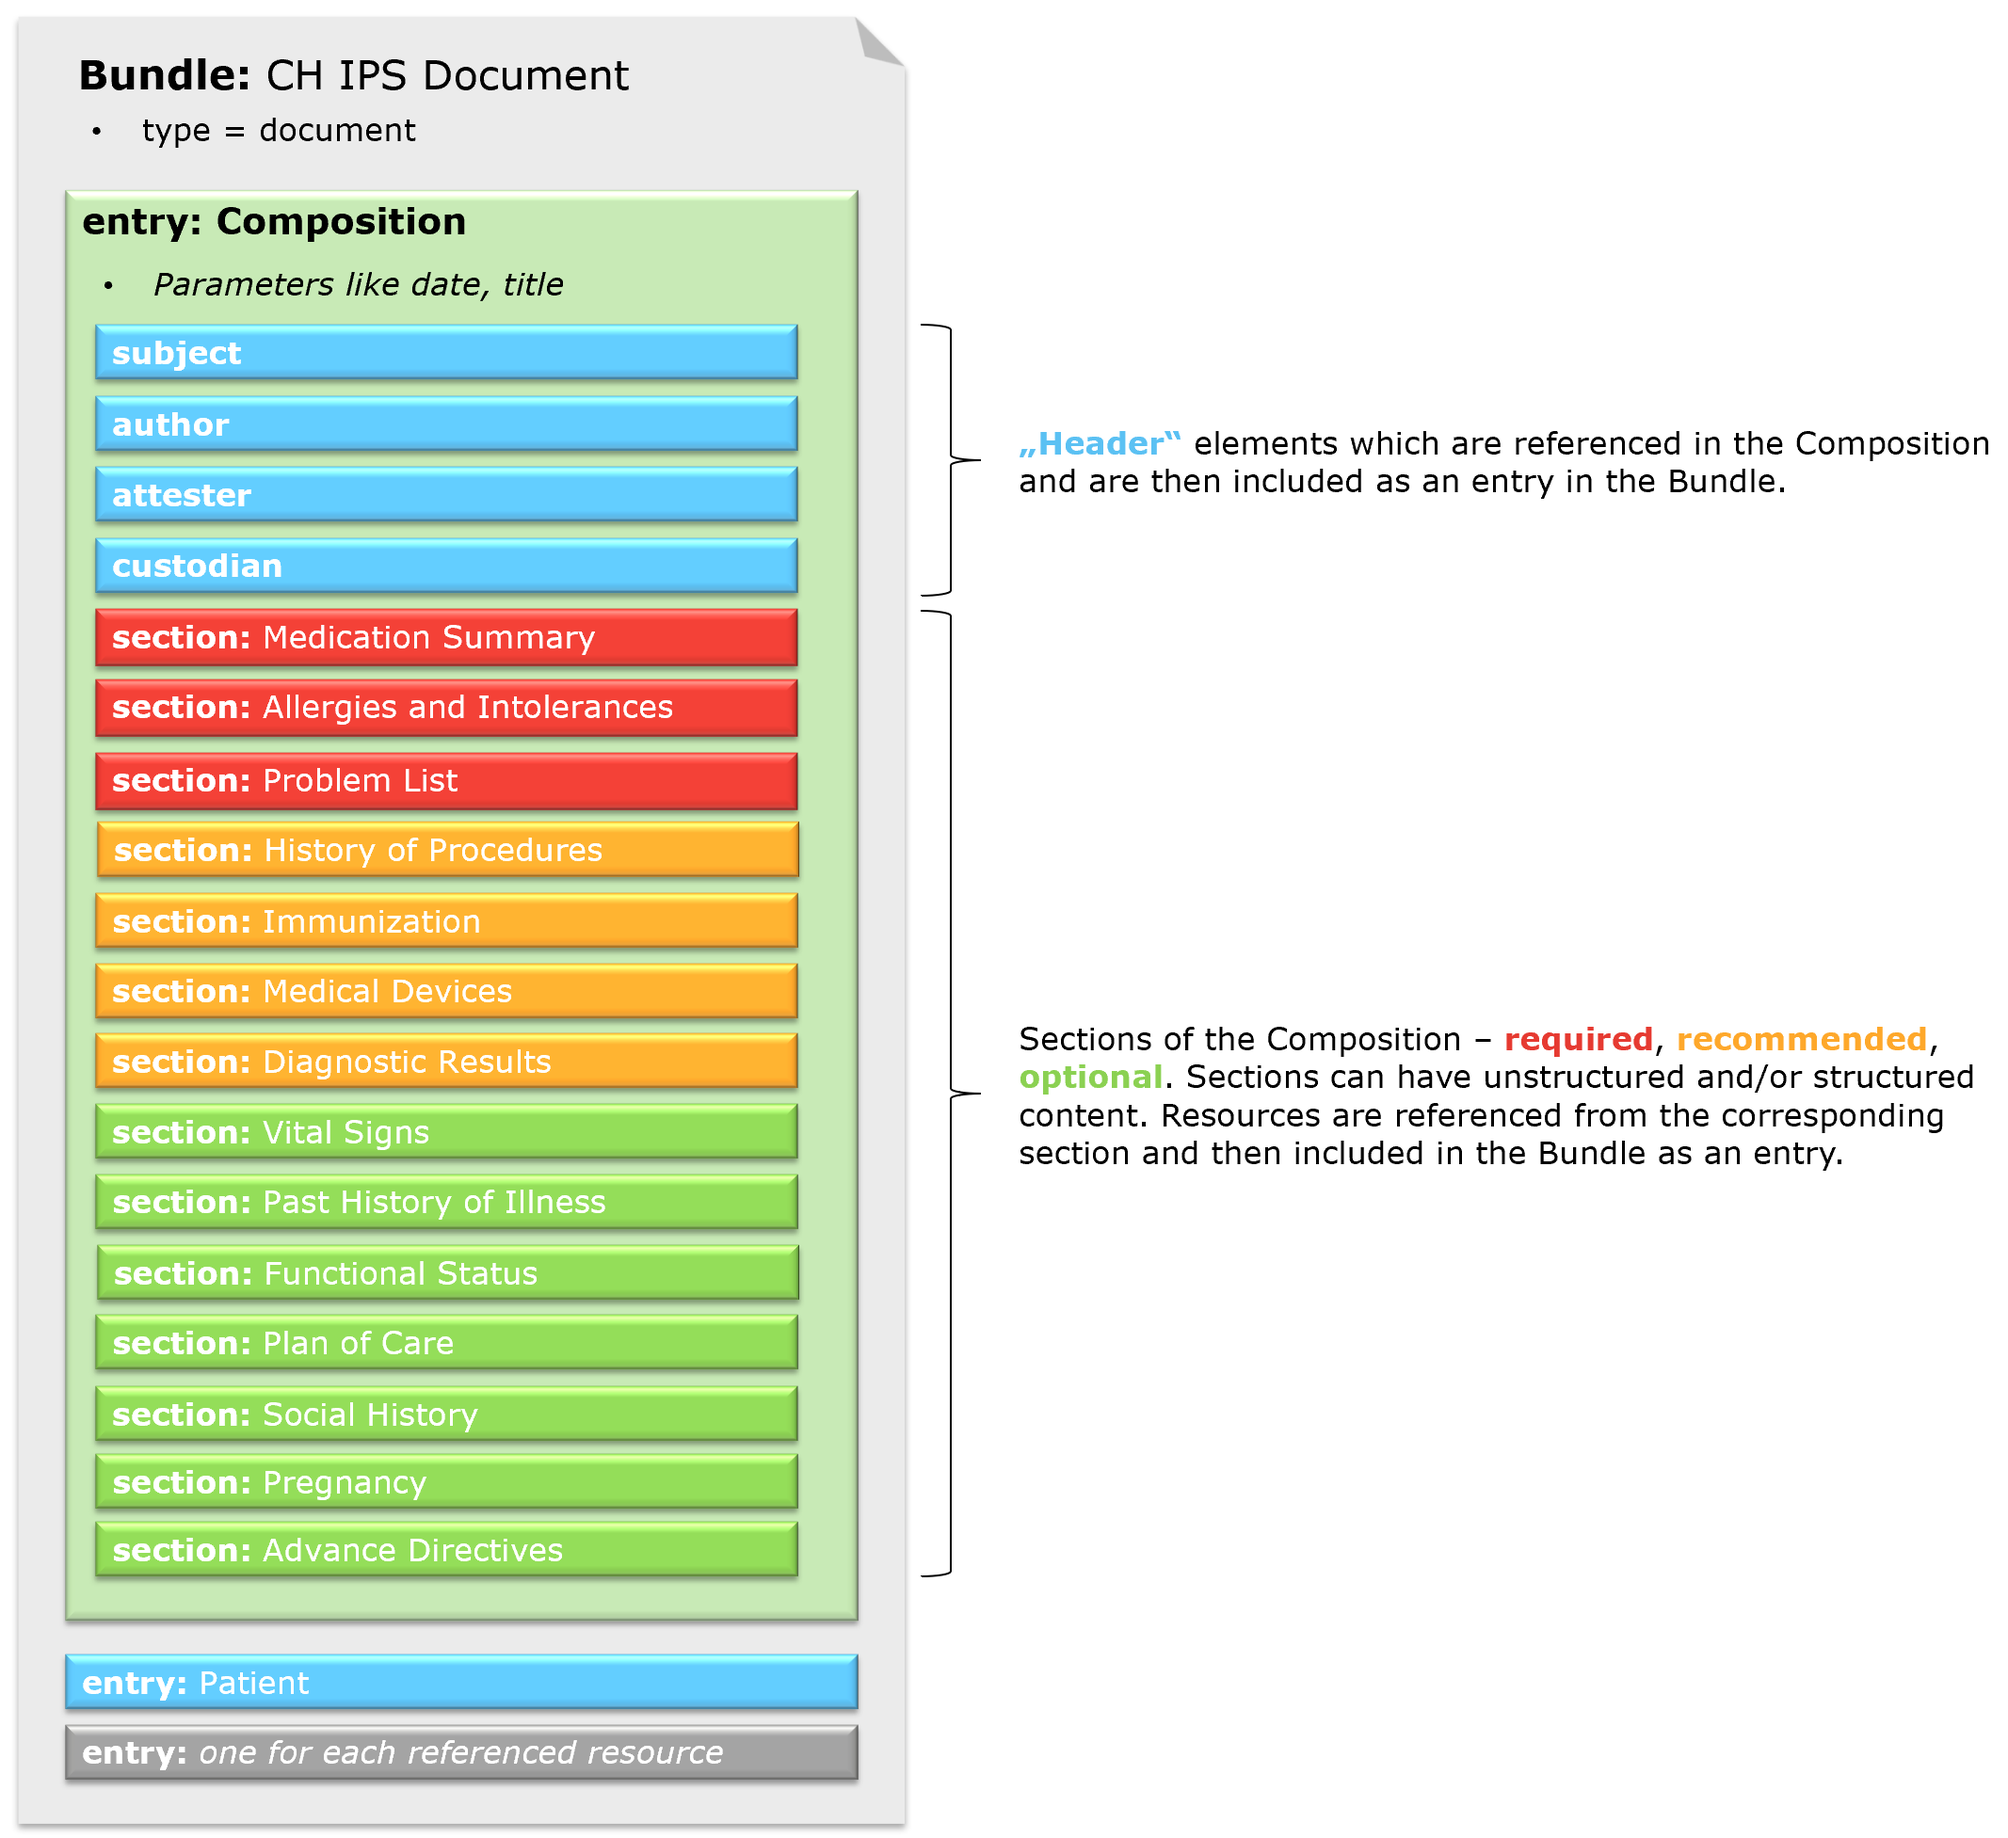
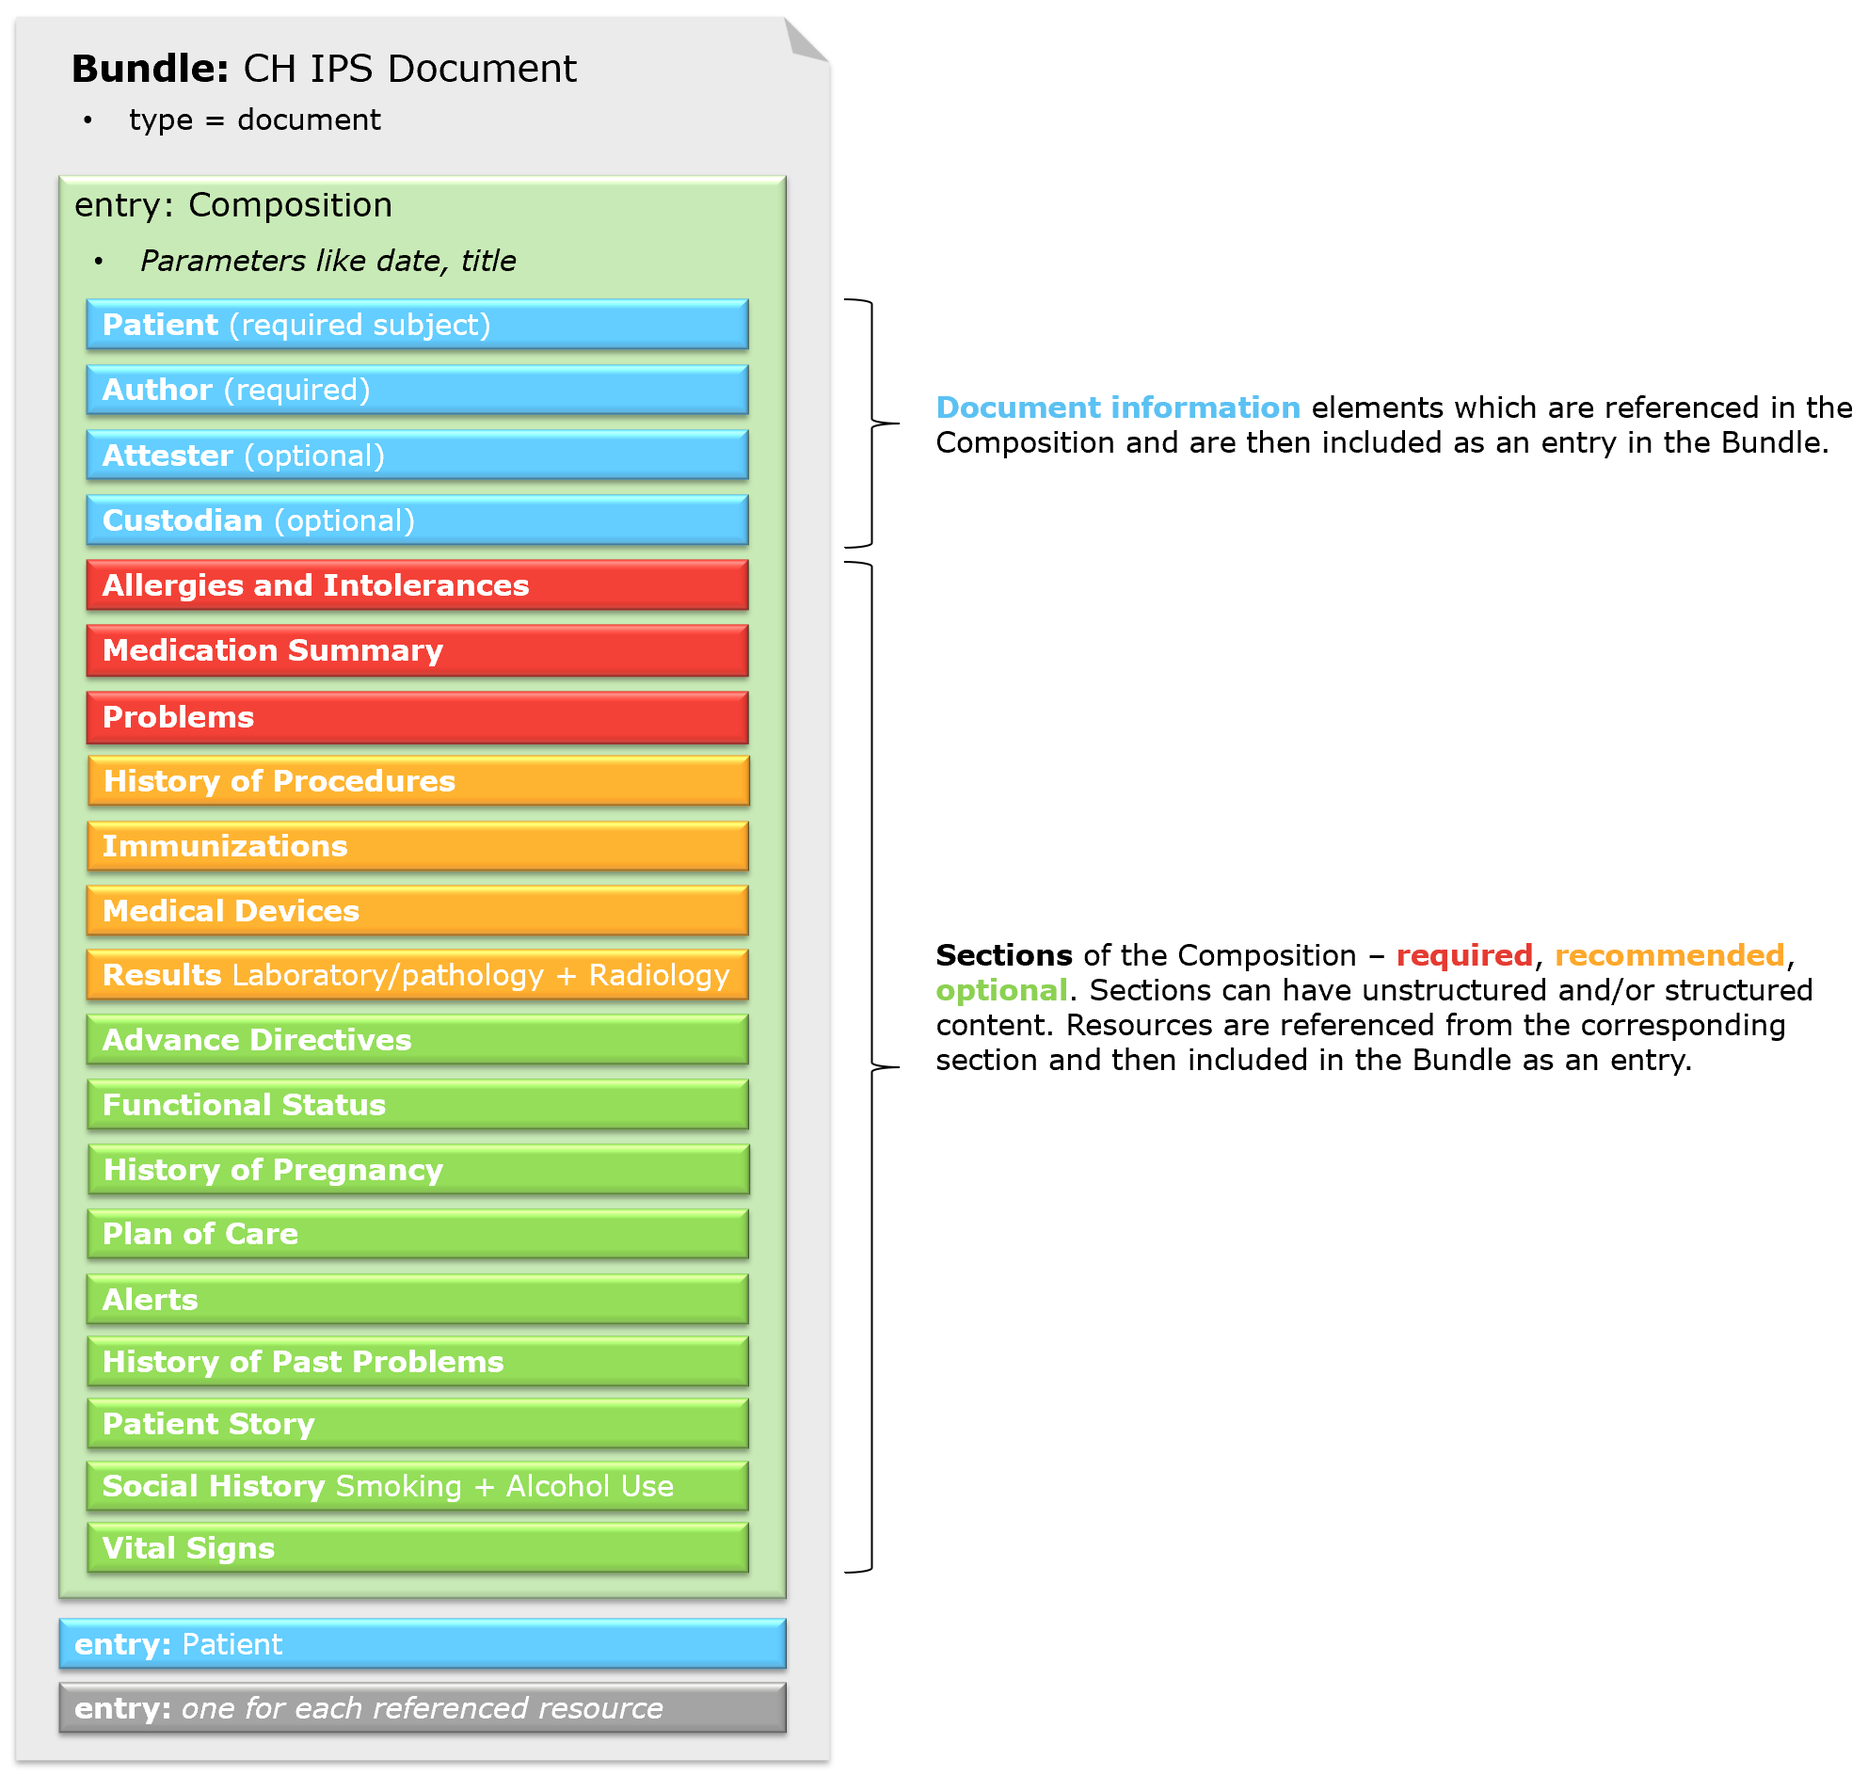
updates according changes in ips #10

diff --git a/input/pagecontent/index.md b/input/pagecontent/index.md
@@ -2,7 +2,7 @@
 An **International Patient Summary (IPS) document** is an electronic health record extract containing essential healthcare information about a subject of care. As specified in EN 17269 and ISO 27269, it is designed for supporting the use case scenario for ‘unplanned, cross border care’, but it is not limited to it. It is intended to be international, i.e., to provide generic solutions for global application beyond a particular region or country.  
 
 The **CH IPS** is an implementable, testable FHIR specification based on the IPS specification as defined by HL7 and ISO.   
-The CH IPS profile set is closely aligned with the [HL7 IPS-UV specification](https://hl7.org/fhir/uv/ips/STU1.1/) while still supporting localized needs for Switzerland and reducing barriers to early adoption.   
+The CH IPS profile set is closely aligned with the [HL7 IPS-UV specification](https://hl7.org/fhir/uv/ips/2024Sep/) while still supporting localized needs for Switzerland and reducing barriers to early adoption.   
 To be able to guarantee this, the CH IPS profiles are derived from the respective [CH Core profiles](https://fhir.ch/ig/ch-core/index.html) and conformity with the corresponding IPS profile is ensured with the [imposeProfile extension](https://hl7.org/fhir/extensions/StructureDefinition-structuredefinition-imposeProfile.html).
 
 {% include img.html img="ig-overview.png" caption="Fig. 1: Schematic representation of the dependency mechanism of the implementation guides" width="65%" %}
@@ -10,22 +10,19 @@ To be able to guarantee this, the CH IPS profiles are derived from the respectiv
 
 <div markdown="1" class="stu-note">
 
-This implementation guide is under STU ballot by [HL7 Switzerland](https://www.hl7.ch/) until September 30th, 2024 midnight.   
-Please add your feedback via the ‘Propose a change’-link in the footer on the page where you have comments.  
-
 [Changelog](changelog.html) with significant changes, open and closed issues.
 </div>
 
 **Download**: You can download this implementation guide in the [npm package](https://confluence.hl7.org/display/FHIR/NPM+Package+Specification) format from [here](package.tgz).
 
 ### Principles & Design
-CH IPS follows the [Design Conventions and Principles](https://hl7.org/fhir/uv/ips/STU1.1/design.html) of the International Patient Summary IG. Please check the detailed information there.    
+CH IPS follows the [General Principles](https://hl7.org/fhir/uv/ips/2024Sep/General-Principles.html) and [Design Conventions](https://hl7.org/fhir/uv/ips/2024Sep/Design-Conventions.html) of the International Patient Summary IG. Please check the detailed information there.    
 In the CH IPS IG, only a few key points are highlighted and visualized in a simplified form:
-* The IPS is composed of different elements and sections, see the description in the [IPS IG](https://hl7.org/fhir/uv/ips/STU1.1/ipsStructure.html). The [CH IPS Document](document.html) is based on this **structure**.
-* The principles for **representing “known absent” and “not known”** described in the [IPS IG](https://hl7.org/fhir/uv/ips/STU1.1/design.html#representing-known-absent-and-not-known) apply for CH IPS and are illustrated in Fig. 2.
-* In this IG no elements are actively flagged as [mustSupport](https://hl7.org/fhir/r4/conformance-rules.html#mustSupport) = `true`. **Must Support** in CH IPS applies to the same elements as defined in IPS and the same [rules](https://hl7.org/fhir/uv/ips/STU1.1/design.html#must-support) also take effect.
+* The IPS is composed of different elements and sections, see the description in the [IPS IG](https://hl7.org/fhir/uv/ips/2024Sep/Structure-of-the-International-Patient-Summary.html). The [CH IPS Document](document.html) is based on this **structure**.
+* The principles for representing **empty sections & missing data** described in the [IPS IG](https://hl7.org/fhir/uv/ips/2024Sep/Design-Conventions.html#empty-sections--missing-data) apply for CH IPS and are illustrated in Fig. 2.
+* In this IG no elements are actively flagged as [mustSupport](https://hl7.org/fhir/r4/conformance-rules.html#mustSupport) = `true`. **Must Support (MS)** in CH IPS applies to the same elements as defined in IPS and the same [rules](https://hl7.org/fhir/uv/ips/2024Sep/Design-Conventions.html#must-support) also take effect.
 
-{% include img.html img="sections.png" caption="Fig. 2: Summary illustration of some principles for the sections" width="60%" %}
+{% include img.html img="sections.png" caption="Fig. 2: Summary illustration of some principles for the sections" width="70%" %}
 
 Profiling in CH IPS is kept to a minimum and focuses on Swiss use. In order to avoid duplication, which could lead to conflicts in future versions, not all restrictions (e.g. must support, cardinalities, constraints) of the IPS are repeated in the CH IPS profiles. The imposeProfile extension ensures the validation of conformity with both profiles.
 

diff --git a/input/pagecontent/document.md b/input/pagecontent/document.md
@@ -5,8 +5,8 @@ This exchange format is defined as a [document](https://hl7.org/fhir/R4/document
 
 
 ### Profile
-[CH IPS Document](StructureDefinition-ch-ips-document.html): Definition for the Swiss IPS Document in the context of the electronic patient record (EPR), derived from the CH Core Document EPR with support for conformity with the IPS Document.
+[CH IPS Document](StructureDefinition-ch-ips-document.html): Definition for the Swiss IPS Document in the context of the electronic patient record (EPR), derived from the [CH Core Document EPR](https://fhir.ch/ig/ch-core/5.0.0/StructureDefinition-ch-core-document-epr.html) with support for conformity with the [IPS Document](https://hl7.org/fhir/uv/ips/2024Sep/StructureDefinition-Bundle-uv-ips.html).
 
 ### Examples
-* [UC 1.1: Swiss IPS Document](Bundle-UC1-SwissIpsDocument1.html): Document includes only required sections and shows also how to represent 'known absent' for a required section
+* [UC 1.1: Swiss IPS Document](Bundle-UC1-SwissIpsDocument1.html): Document includes only required sections and shows also how to represent 'missing data' for a required section
 * [UC 1.2: Swiss IPS Document](Bundle-UC1-SwissIpsDocument2.html): Document includes in addition to the required sections also recommended and optional sections

diff --git a/input/pagecontent/changelog.md b/input/pagecontent/changelog.md
@@ -7,6 +7,15 @@ All significant changes to this FHIR implementation guide will be documented on 
 
 #### Changed / Updated
 * [#7](https://github.com/hl7ch/ch-ips/issues/7): Missing display values added
+* [#10](https://github.com/hl7ch/ch-ips/issues/10): Update to the newest published version of the IPS (see [IPS changelog](https://hl7.org/fhir/uv/ips/2024Sep/changes.html#stu-200-ballot-update))
+   * Update the external links to the new IPS version
+   * Updates according to the change of handling empty sections & missing data
+      * Remove minimum cardinality of 1 for Composition.section.entry (and .reference)
+      * Update example 'UC 1.1: Swiss IPS Document' with showing an empty section
+   * Changes on document entries and sections and accordingly the profiles:
+      * Change ObservationResults to ObservationResultsLaboratoryPathology and ObservationResultsRadiology
+      * Remove Media 
+      * Add Flag, ClinicalImpression, CarePlan, Consent and DocumentReference  
 
 #### Fixed
 
